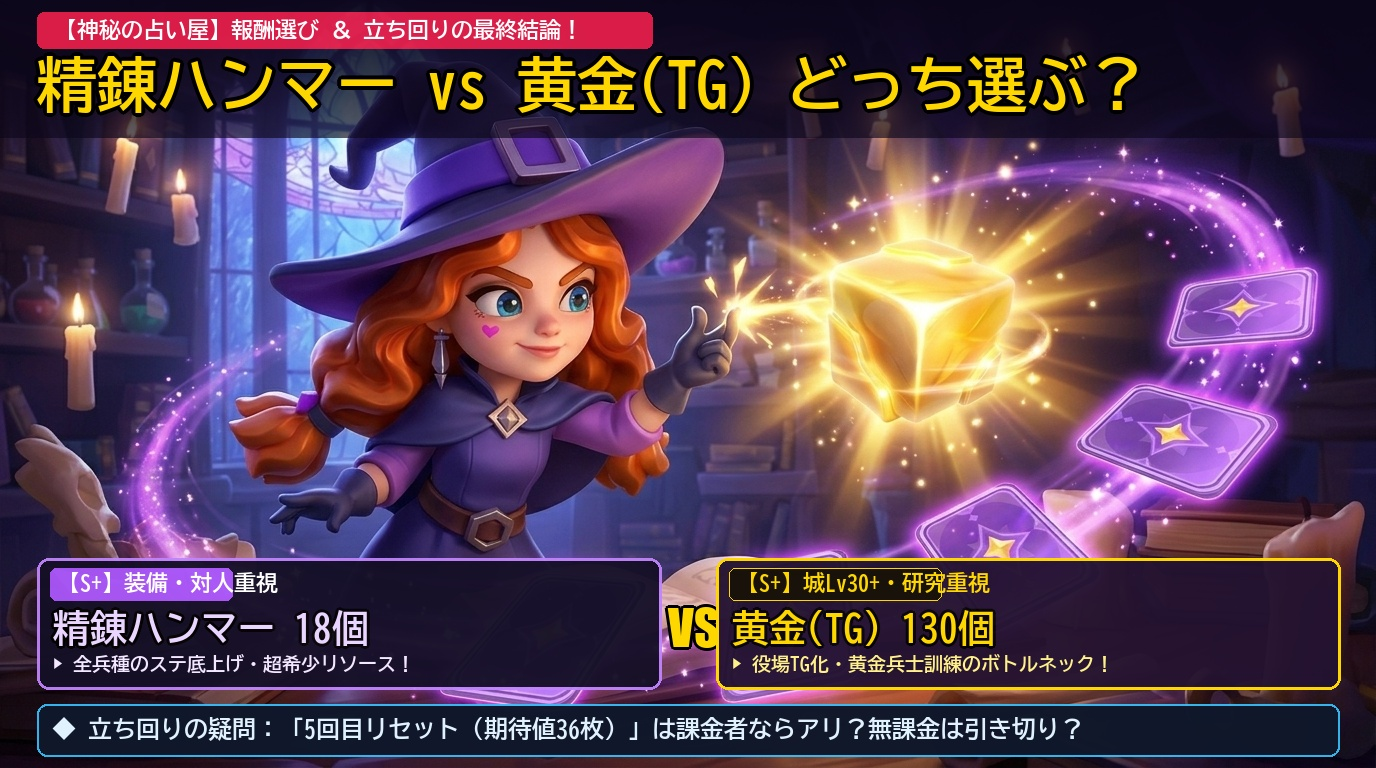
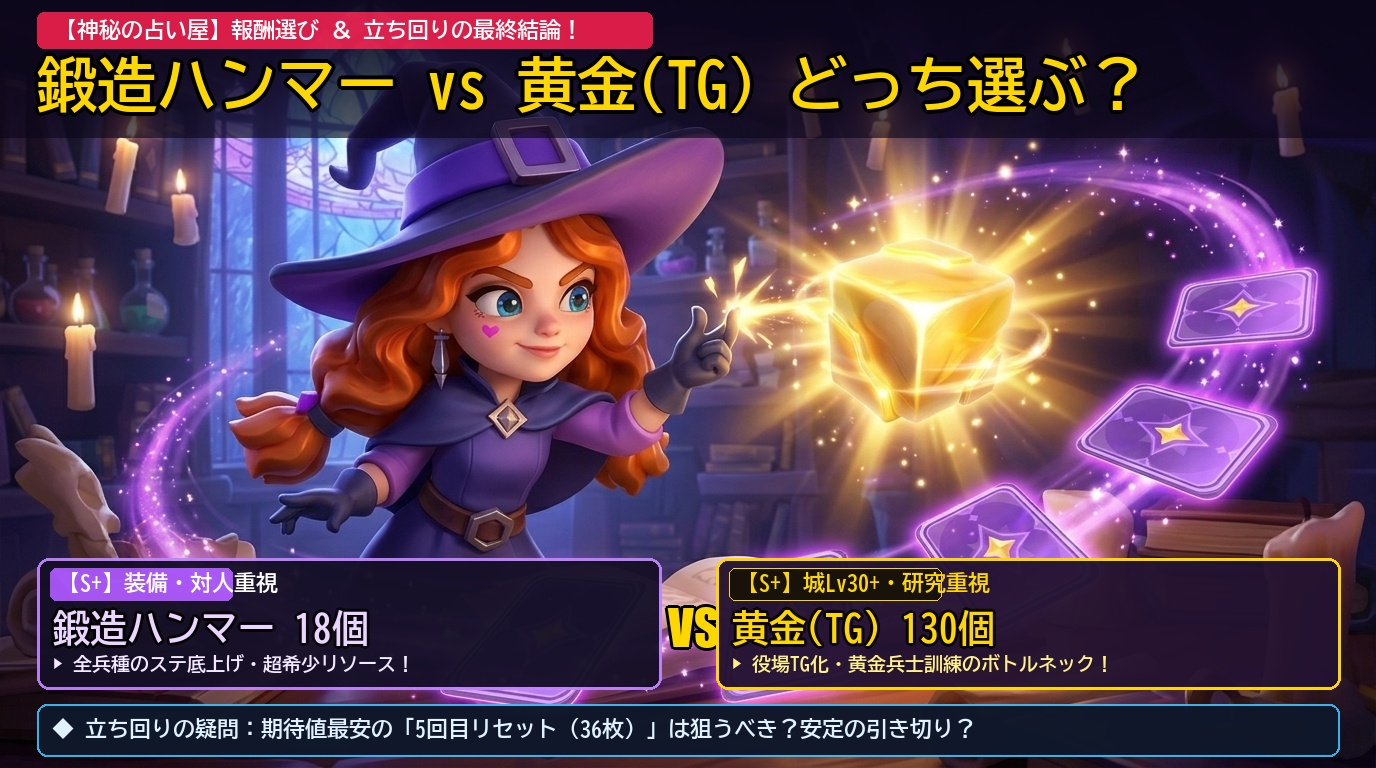
fix: 画像内の名称を正式名称『鍛造ハンマー』に修正し、5回目リセットの問い掛けを理論派vs安定派に適合

Changed region(s): [[0.0625, 0.9375, 0.7812, 0.9688], [0.0, 0.0625, 0.125, 0.1562], [0.0312, 0.7812, 0.0938, 0.8438]]

diff --git a/docs/guides/x_post_campaign_mystic_divination.md b/docs/guides/x_post_campaign_mystic_divination.md
@@ -2,7 +2,7 @@
 
 > 元記事: [神秘の占い屋 完全攻略ガイド](https://s8933935-ops.github.io/kingshot-bot/docs/guides/kingshot_mystic_divination_complete_guide.html)
 > 画像アセット:
-> - `docs/guides/images/mystic_divination_x_hook_master_16x9.jpg` (👑 精錬ハンマーvs黄金TG ＆ 課金者5回リセット問い掛け・超高フック決定版)
+> - `docs/guides/images/mystic_divination_x_hook_master_16x9.jpg` (👑 鍛造ハンマーvs黄金TG ＆ 5回目リセット期待値問い掛け・超高フック決定版)
 > - `docs/guides/images/mystic_divination_x_hook_action_16x9.jpg` (キャラ忠実再現・ダイナミック構図16:9)
 > - `docs/guides/images/mystic_divination_x_hook_chibi_16x9.jpg` (キャラ忠実再現・正面16:9)
 
